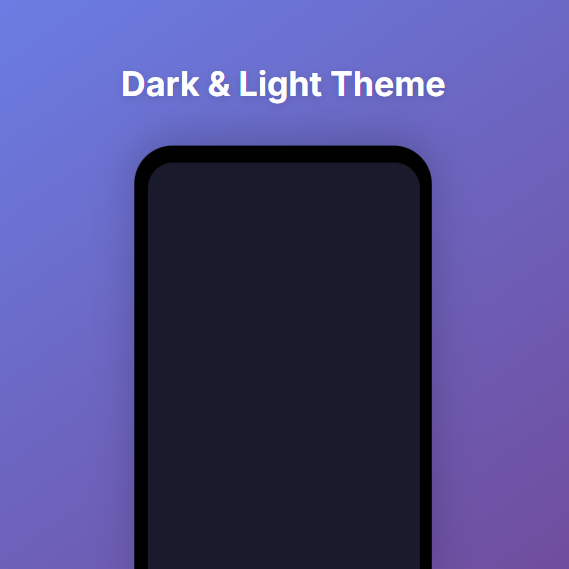
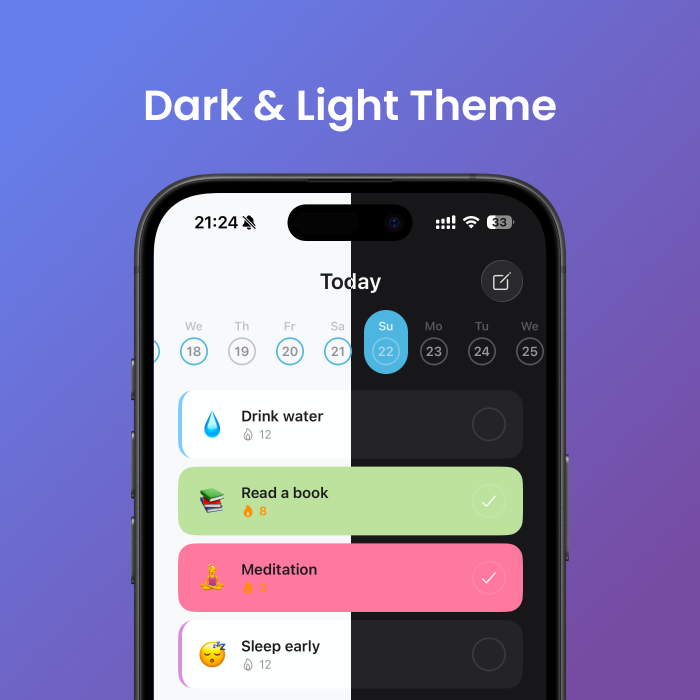
feat: loaded features images

diff --git a/index.html b/index.html
@@ -116,13 +116,13 @@
         <h4>Everything you need to track and build lasting habits.</h4>
         <div class="features_list">
           <img src="./assets/feature_1.png" class="image" alt="Dark & Light Theme">
-          <img src="./assets/feature_1.png" class="image" alt="Streaks & Calendar">
-          <img src="./assets/feature_1.png" class="image" alt="Reminders">
-          <img src="./assets/feature_1.png" class="image" alt="4 Languages">
-          <img src="./assets/feature_1.png" class="image" alt="Habits Archive">
-          <img src="./assets/feature_1.png" class="image" alt="Vacation Mode">
-          <img src="./assets/feature_1.png" class="image" alt="Import & Export">
-          <img src="./assets/feature_1.png" class="image" alt="Support & Feedback">
+          <img src="./assets/feature_2.png" class="image" alt="Reminders">
+          <img src="./assets/feature_3.png" class="image" alt="Streaks & Calendar">
+          <img src="./assets/feature_4.png" class="image" alt="Vacation Mode">
+          <img src="./assets/feature_5.png" class="image" alt="Habits Archive">
+          <img src="./assets/feature_6.png" class="image" alt="4 Languages">
+          <img src="./assets/feature_7.png" class="image" alt="Import & Export">
+          <img src="./assets/feature_8.png" class="image" alt="Fast Support">
         </div>
       </div>
     </div>
@@ -132,7 +132,7 @@
     <div class="wrapper">
       <div class="content">
         <h2>Built with Care</h2>
-        <h4>Habit Cloud is a young, actively developed app. We listen to<br>our users and regularly ship new features based on your feedback.</h4>
+        <h4>Habit Cloud is a young, actively developed app. We listen to<br> our users and regularly ship new features based on your feedback.</h4>
         <div class="care_list">
           <div class="care_card">
             <div class="card_icon blue">

diff --git a/styles/main.css b/styles/main.css
@@ -16,7 +16,7 @@ h2 {
 
 h4 {
   font-weight: 500;
-  font-size: clamp(0.8rem, 3.2vw, 1.125rem);
+  font-size: clamp(15px, 4vw, 1.125rem);
   line-height: 1.3;
   color: var(--text-grey);
   text-align: center;
@@ -39,7 +39,7 @@ h4 {
 .button a img {
   width: 22px;
   height: 22px;
-  padding-bottom: 1px;
+  padding-bottom: 2px;
 }
 .button a:hover {
   transform: translateY(-2px);
@@ -226,6 +226,9 @@ h4 {
   }
 }
 @media (max-width: 700px) {
+  .hero {
+    padding: 40px 0 60px;
+  }
   .hero .content {
     flex-direction: column-reverse;
     gap: 60px;
@@ -259,6 +262,9 @@ h4 {
   }
 }
 @media (max-width: 480px) {
+  .hero {
+    padding: 40px 0 40px;
+  }
   .hero .content .hero_info .hero_title {
     text-align: start;
   }
@@ -276,6 +282,12 @@ h4 {
     top: 10px;
     left: 50px;
     transform: rotate(15deg);
+  }
+  .features {
+    padding: 40px 0 40px;
+  }
+  .care {
+    padding: 40px 0 60px;
   }
 }
 @media (max-width: 400px) {

diff --git a/styles/main.scss b/styles/main.scss
@@ -17,7 +17,7 @@ h2 {
 
 h4 {
   font-weight: 500;
-  font-size: clamp(0.8rem, 3.2vw, 1.125rem);
+  font-size: clamp(15px, 4vw, 1.125rem);
   line-height: 1.3;
   color: var(--text-grey);
   text-align: center;
@@ -40,7 +40,7 @@ h4 {
     img {
       width: 22px; 
       height: 22px;
-      padding-bottom: 1px;
+      padding-bottom: 2px;
     }
 
     &:hover {
@@ -253,6 +253,8 @@ h4 {
 
 @media (max-width: 700px) {
   .hero {
+    padding: 40px 0 60px;
+
     .content {
       flex-direction: column-reverse;
       gap: 60px;
@@ -312,6 +314,7 @@ h4 {
 
 @media (max-width: 480px) {
   .hero {
+    padding: 40px 0 40px;
     .content {
       .hero_info {
         .hero_title {
@@ -336,6 +339,12 @@ h4 {
         }
       }
     }
+  }
+  .features {
+    padding: 40px 0 40px;
+  }
+  .care {
+    padding: 40px 0 60px;
   }
 }
 
